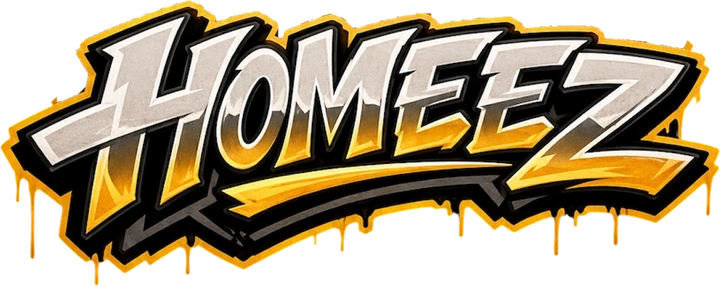
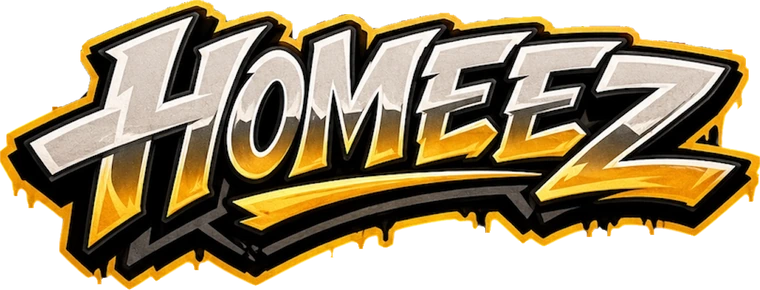
HOMEEZ: marquee wordmark v2 (drips trimmed to stubs, top-edge speck removed, larger fit)

diff --git a/homeez/index.html b/homeez/index.html
@@ -492,7 +492,7 @@
     .hzm-layer{position:absolute;inset:0;width:100%;height:100%;pointer-events:none}
     /* marquee: HOMEEZ wordmark printed inside the dark top panel (panel interior = x60-408, y16-69 of the 470x688 base) */
     .hzm-marquee{position:absolute;left:12.77%;top:2.33%;width:74.04%;height:7.7%;border-radius:999px;overflow:hidden;display:flex;align-items:center;justify-content:center;pointer-events:none;box-shadow:inset 0 2px 4px rgba(0,0,0,.55),inset 0 -1px 0 rgba(255,255,255,.06)}
-    .hzm-marquee img{display:block;max-width:86%;max-height:84%;width:auto;height:auto;object-fit:contain;filter:drop-shadow(0 1px 0 rgba(255,255,255,.14)) drop-shadow(0 -1px 1px rgba(0,0,0,.7)) drop-shadow(0 2px 2px rgba(0,0,0,.45))}
+    .hzm-marquee img{display:block;max-width:84%;max-height:84%;width:auto;height:auto;object-fit:contain;filter:drop-shadow(0 1px 0 rgba(255,255,255,.14)) drop-shadow(0 -1px 1px rgba(0,0,0,.7)) drop-shadow(0 2px 2px rgba(0,0,0,.45))}
     .hzm-marquee::after{content:"";position:absolute;inset:0;border-radius:inherit;background:linear-gradient(180deg,rgba(255,255,255,.13) 0%,rgba(255,255,255,.04) 38%,rgba(255,255,255,0) 52%),linear-gradient(105deg,rgba(255,255,255,0) 58%,rgba(255,255,255,.07) 66%,rgba(255,255,255,0) 74%)}
     .hzm-dome{position:absolute;left:4.5%;top:14.6%;width:91%;height:34.4%;overflow:hidden;border-radius:42% 42% 4% 4%/60% 60% 4% 4%}
     .hzc{position:absolute;width:30%;aspect-ratio:1;transform:rotate(var(--r));transition:transform .3s}
@@ -623,7 +623,7 @@
           <div class="hzm-stage">
             <div id="hzm" class="hzm">
               <img class="hzm-layer" src="/homeez/assets/machine_base.webp?v=3" alt="HOMEEZ capsule machine" draggable="false">
-              <div class="hzm-marquee" aria-hidden="true"><img src="/homeez/assets/machine_wordmark.webp?v=1" alt="" draggable="false"></div>
+              <div class="hzm-marquee" aria-hidden="true"><img src="/homeez/assets/machine_wordmark.webp?v=2" alt="" draggable="false"></div>
               <div id="hzmDome" class="hzm-dome" aria-hidden="true"></div>
               <img class="hzm-layer hzm-glass" src="/homeez/assets/machine_glass.png?v=2" alt="" aria-hidden="true" draggable="false">
               <button id="hzmKnob" class="hzm-knob" type="button" aria-label="Twist the knob to get a HOMEEZ capsule">
